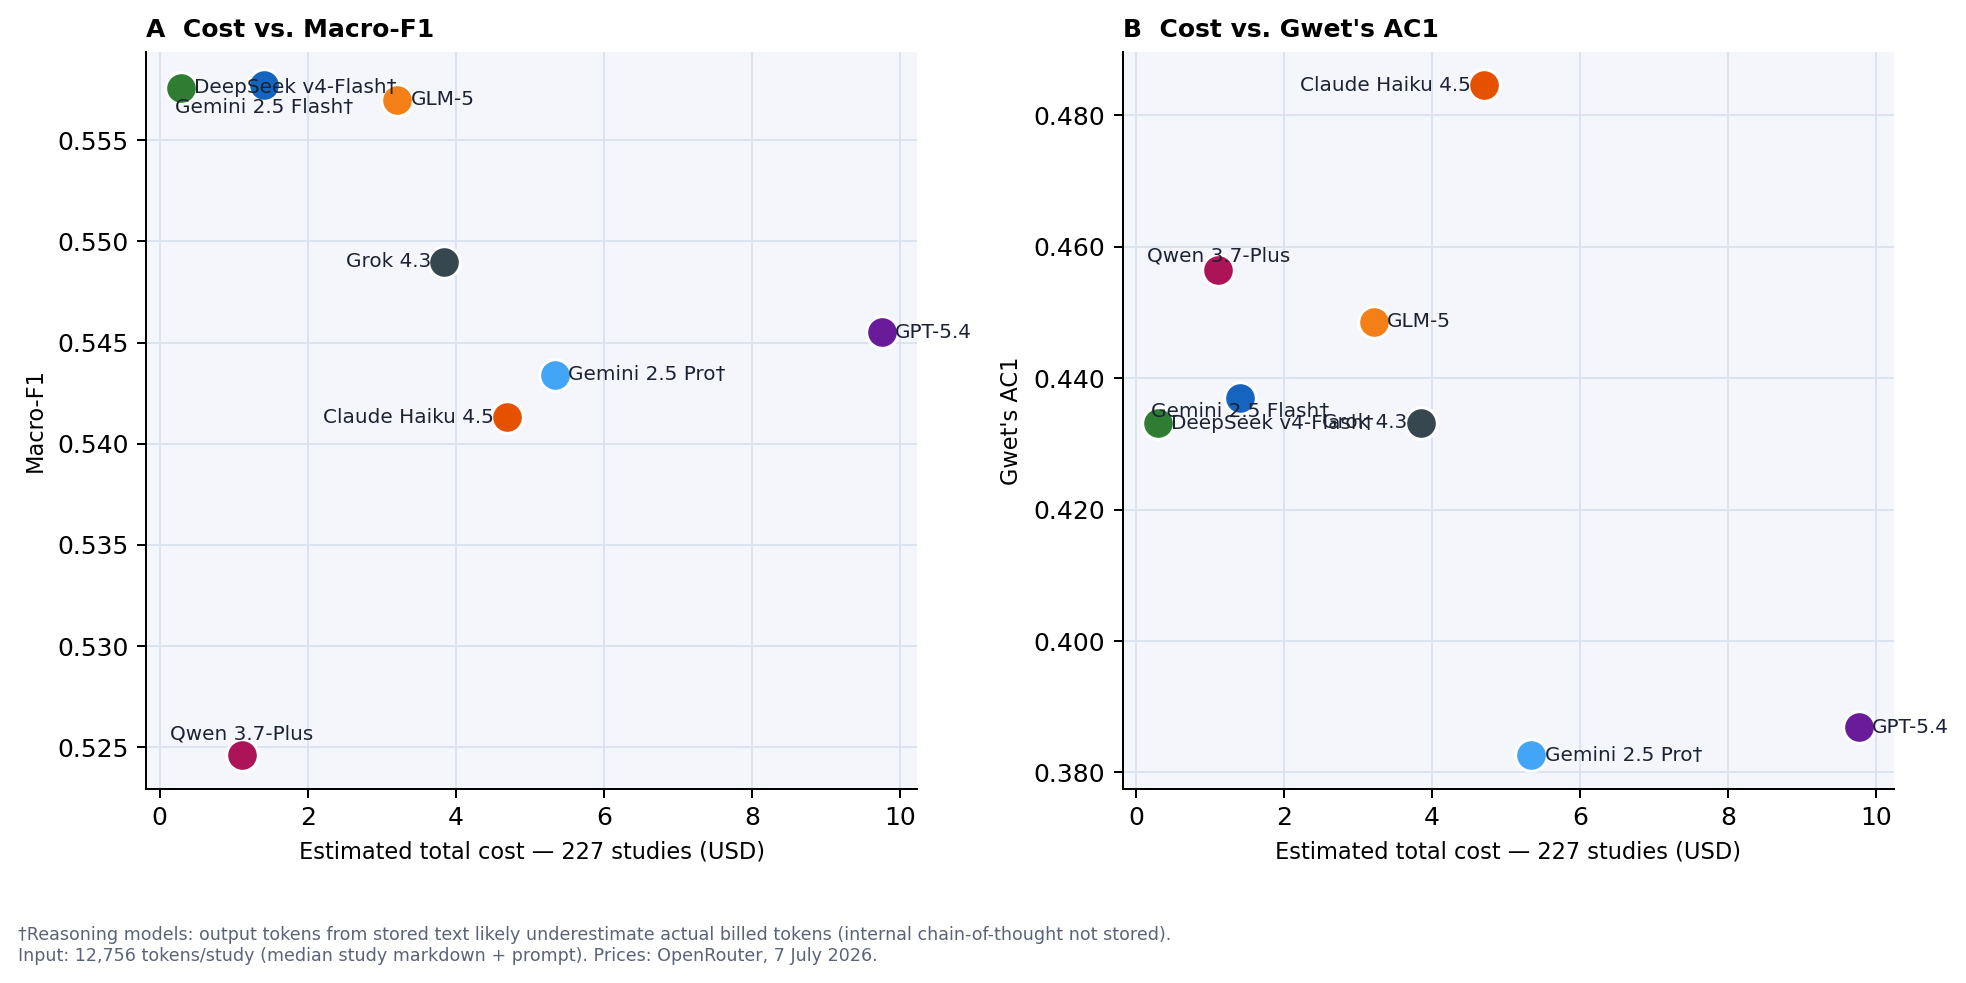
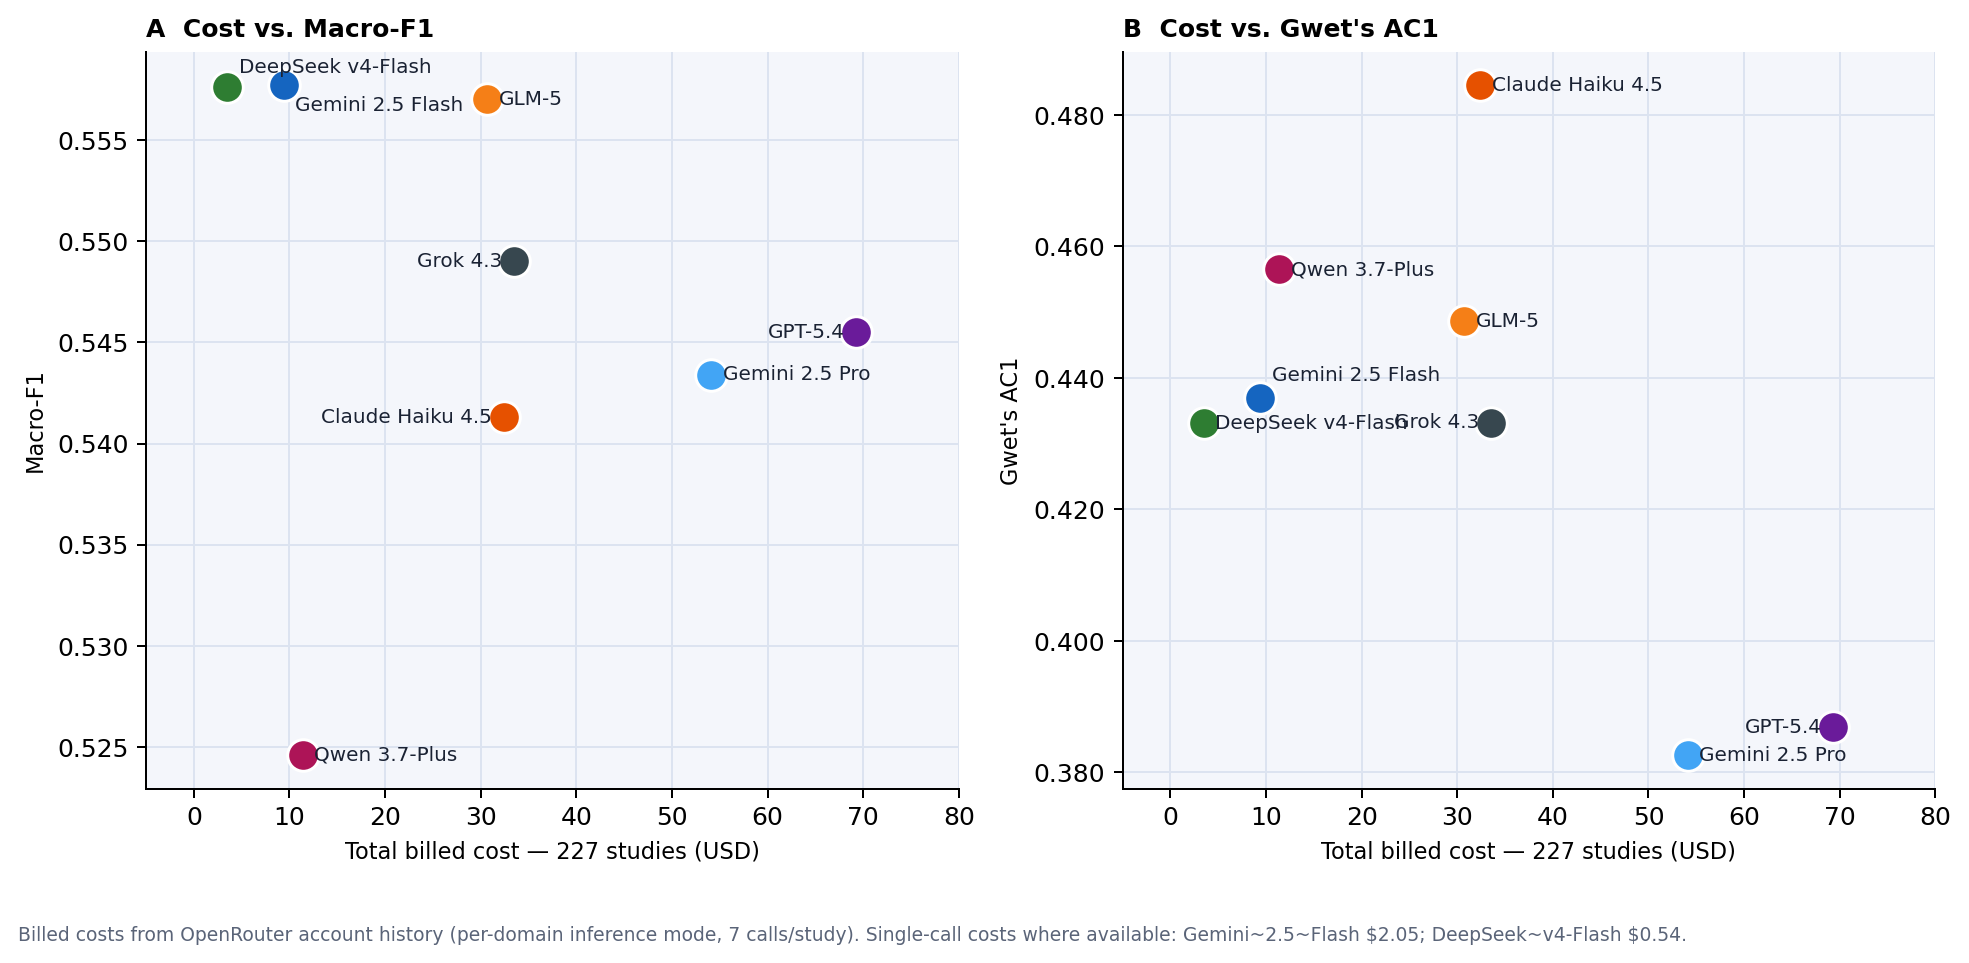
fix: replace cost estimates with actual OpenRouter billed costs in S8
Replace token-based estimates with actual costs from OpenRouter account
history (per-domain mode): DeepSeek $3.50 – GPT-5.4 $69.30 (20× spread).
Update table, narrative text, and figure. Add single-call cost comparison
(Gemini Flash $2.05 vs $9.42; DeepSeek $0.54 vs $3.50).

diff --git a/sections/suppinfo.tex b/sections/suppinfo.tex
@@ -494,80 +494,63 @@ simplifies interpretation.
 
 % ─────────────────────────────────────────────────────────────────────────────
 \clearpage
-\subsection*{S8\quad Estimated Inference Cost vs.\ Performance}
+\subsection*{S8\quad Inference Cost vs.\ Performance}
 \label{sec:si-cost}
 
-Table~\ref{tab:cost} reports estimated inference costs for the eight models
-evaluated across the 227-study benchmark, together with their performance metrics.
-Costs are estimates derived from two components.
-\emph{Input tokens}: median study text length in Markdown (44{,}917 characters,
-corresponding to $\approx 11{,}230$ tokens) plus the prompt template (6{,}107
-characters, $\approx 1{,}530$ tokens), giving a median of 12{,}756 input tokens
-per call.
-\emph{Output tokens}: median character count of stored domain judgements and
-free-text justifications across all 227 studies, divided by~4 to convert to tokens.
-Per-token prices were taken from OpenRouter on 7~July~2026 and are reported per
-million tokens (Table~\ref{tab:cost}).
-For reasoning models (DeepSeek~v4-Flash, Gemini~2.5~Flash, and Gemini~2.5~Pro),
-internal chain-of-thought tokens are not reflected in stored justification text;
-actual billed output costs for these models are therefore likely higher than
-reported here.
+Table~\ref{tab:cost} reports actual billed inference costs for the eight models
+across the 227-study benchmark, retrieved from the OpenRouter account history.
+All costs correspond to per-domain inference mode (seven sequential calls per study).
+For Gemini~2.5~Flash and DeepSeek~v4-Flash, which were also evaluated in
+single-call mode (Section~\ref{sec:inference}), the single-call costs were
+\$2.05 and \$0.54 respectively---4.6$\times$ and 6.5$\times$ lower than their
+per-domain counterparts---reflecting the reduction from seven calls to one per study.
 
 \begin{table}[ht]
 \centering
-\caption{Estimated inference cost and performance for the eight models.
-Input tokens: median 12{,}756 per call (study text + prompt).
-Output tokens: median estimated from stored justification text.
-Prices: OpenRouter, 7~July~2026.
-$^\dagger$Reasoning model: stored output underestimates billed tokens.
-Total cost: cost per study $\times$ 227.}
+\caption{Billed inference cost and performance for the eight models
+(per-domain mode, 227~studies).
+Costs from OpenRouter account history, accessed 7~July~2026.
+Cost/study = total $\div$ 227.
+$\times$DS = cost relative to DeepSeek~v4-Flash.}
 \label{tab:cost}
 \resizebox{\linewidth}{!}{%
-\begin{tabular}{lrrrrrrr}
+\begin{tabular}{lrrrrrr}
 \toprule
-Model & \multicolumn{2}{c}{Est.\ tokens/study} & \multicolumn{2}{c}{Price (\$/1M tokens)} & Est.\ cost/study & Est.\ total & Macro-F1 \\
-      & Input & Output & Input & Output & (USD) & (USD) & \\
+Model & Total (USD) & Cost/study (USD) & $\times$DS & Macro-F1 & Gwet's AC1 & Accuracy (\%) \\
 \midrule
-DeepSeek~v4-Flash$^\dagger$ &  12{,}756 &   719 & 0.09 &  0.18 & 0.0013 &  0.29 & 0.558 \\
-Qwen~3.7-Plus               &  12{,}756 &   624 & 0.32 &  1.28 & 0.0049 &  1.11 & 0.525 \\
-Gemini~2.5~Flash$^\dagger$  &  12{,}756 &   948 & 0.30 &  2.50 & 0.0062 &  1.41 & 0.558 \\
-GLM-5                       &  12{,}756 &   936 & 0.90 &  2.86 & 0.0142 &  3.21 & 0.557 \\
-Grok~4.3                    &  12{,}756 &   398 & 1.25 &  2.50 & 0.0169 &  3.85 & 0.549 \\
-Claude~Haiku~4.5            &  12{,}756 & 1{,}587 & 1.00 & 5.00 & 0.0207 &  4.70 & 0.541 \\
-Gemini~2.5~Pro$^\dagger$    &  12{,}756 &   757 & 1.25 & 10.00 & 0.0235 &  5.34 & 0.543 \\
-GPT-5.4                     &  12{,}756 &   740 & 2.50 & 15.00 & 0.0430 &  9.76 & 0.546 \\
+DeepSeek~v4-Flash &  3.50 & 0.015 &  1.0$\times$ & 0.558 & 0.433 & 60.3 \\
+Gemini~2.5~Flash  &  9.42 & 0.042 &  2.7$\times$ & 0.558 & 0.437 & 60.7 \\
+Qwen~3.7-Plus     & 11.40 & 0.050 &  3.3$\times$ & 0.525 & 0.457 & 60.9 \\
+GLM-5             & 30.70 & 0.135 &  8.8$\times$ & 0.557 & 0.449 & 61.1 \\
+Claude~Haiku~4.5  & 32.40 & 0.143 &  9.3$\times$ & 0.541 & 0.485 & 62.5 \\
+Grok~4.3          & 33.50 & 0.148 &  9.6$\times$ & 0.549 & 0.433 & 60.1 \\
+Gemini~2.5~Pro    & 54.10 & 0.238 & 15.5$\times$ & 0.543 & 0.383 & 57.6 \\
+GPT-5.4           & 69.30 & 0.305 & 19.8$\times$ & 0.546 & 0.387 & 57.7 \\
 \bottomrule
 \end{tabular}}
 \end{table}
 
-Figure~\ref{fig:cost-perf} plots Macro-F1 and Gwet's~AC1 against estimated total
-cost for the 227-study evaluation.
-No positive relationship between cost and performance is observed: the two models
-with the highest Macro-F1 (DeepSeek~v4-Flash and Gemini~2.5~Flash) rank first and
-third in cost-efficiency respectively, whereas the most expensive model
-(GPT-5.4, estimated \$9.76) achieves neither the highest Macro-F1 nor the
-highest AC1 in the benchmark.
-For Gwet's~AC1, Claude~Haiku~4.5 achieves the highest value (0.485) at
-an intermediate cost (\$4.70), while Gemini~2.5~Pro and GPT-5.4---the two costliest
-models---return the lowest AC1 values (0.383 and 0.387 respectively).
-Across the full performance range observed here (Macro-F1: 0.525--0.558;
-AC1: 0.383--0.485), costs vary by a factor of~34 ($\times$34 from DeepSeek to
-GPT-5.4), indicating that model selection on cost grounds does not carry a
-meaningful accuracy penalty within this benchmark.
-These estimates carry important caveats: actual costs depend on study text
-length, caching behaviour, and provider-side pricing changes; reasoning models
-incur additional billed tokens for internal chain-of-thought not captured here.
+Figure~\ref{fig:cost-perf} plots Macro-F1 and Gwet's~AC1 against total billed cost.
+No positive relationship between cost and performance is observed.
+The two models with the highest Macro-F1---DeepSeek~v4-Flash (\$3.50) and
+Gemini~2.5~Flash (\$9.42)---are the two cheapest models evaluated; GLM-5 (\$30.70)
+achieves comparable Macro-F1 at nearly nine times the cost.
+The two most expensive models, GPT-5.4 (\$69.30) and Gemini~2.5~Pro (\$54.10),
+return the lowest AC1 values (0.387 and 0.383) and rank in the bottom half on
+Macro-F1.
+The highest AC1 (0.485) belongs to Claude~Haiku~4.5 at an intermediate cost
+(\$32.40); Qwen~3.7-Plus offers a competitive AC1 (0.457) at \$11.40.
+Across the full performance range (Macro-F1: 0.525--0.558; AC1: 0.383--0.485),
+billed costs span a factor of~20, indicating that model selection on cost grounds
+does not entail a meaningful performance penalty within this benchmark.
 
 \begin{figure}[ht]
   \centering
   \includegraphics[width=\linewidth]{all_reviews_cost_vs_performance}
-  \caption{Estimated total inference cost vs.\ Macro-F1~(A) and Gwet's~AC1~(B)
-  for the 227-study benchmark.
+  \caption{Total billed inference cost vs.\ Macro-F1~(A) and Gwet's~AC1~(B)
+  for the 227-study benchmark (per-domain inference mode).
   Colours identify models as throughout the paper.
-  $^\dagger$Reasoning models (DeepSeek~v4-Flash, Gemini~2.5~Flash,
-  Gemini~2.5~Pro): stored output text likely underestimates actual billed
-  tokens (internal chain-of-thought not stored).
-  Prices from OpenRouter, 7~July~2026.}
+  Costs from OpenRouter account history, 7~July~2026.}
   \label{fig:cost-perf}
 \end{figure}
 